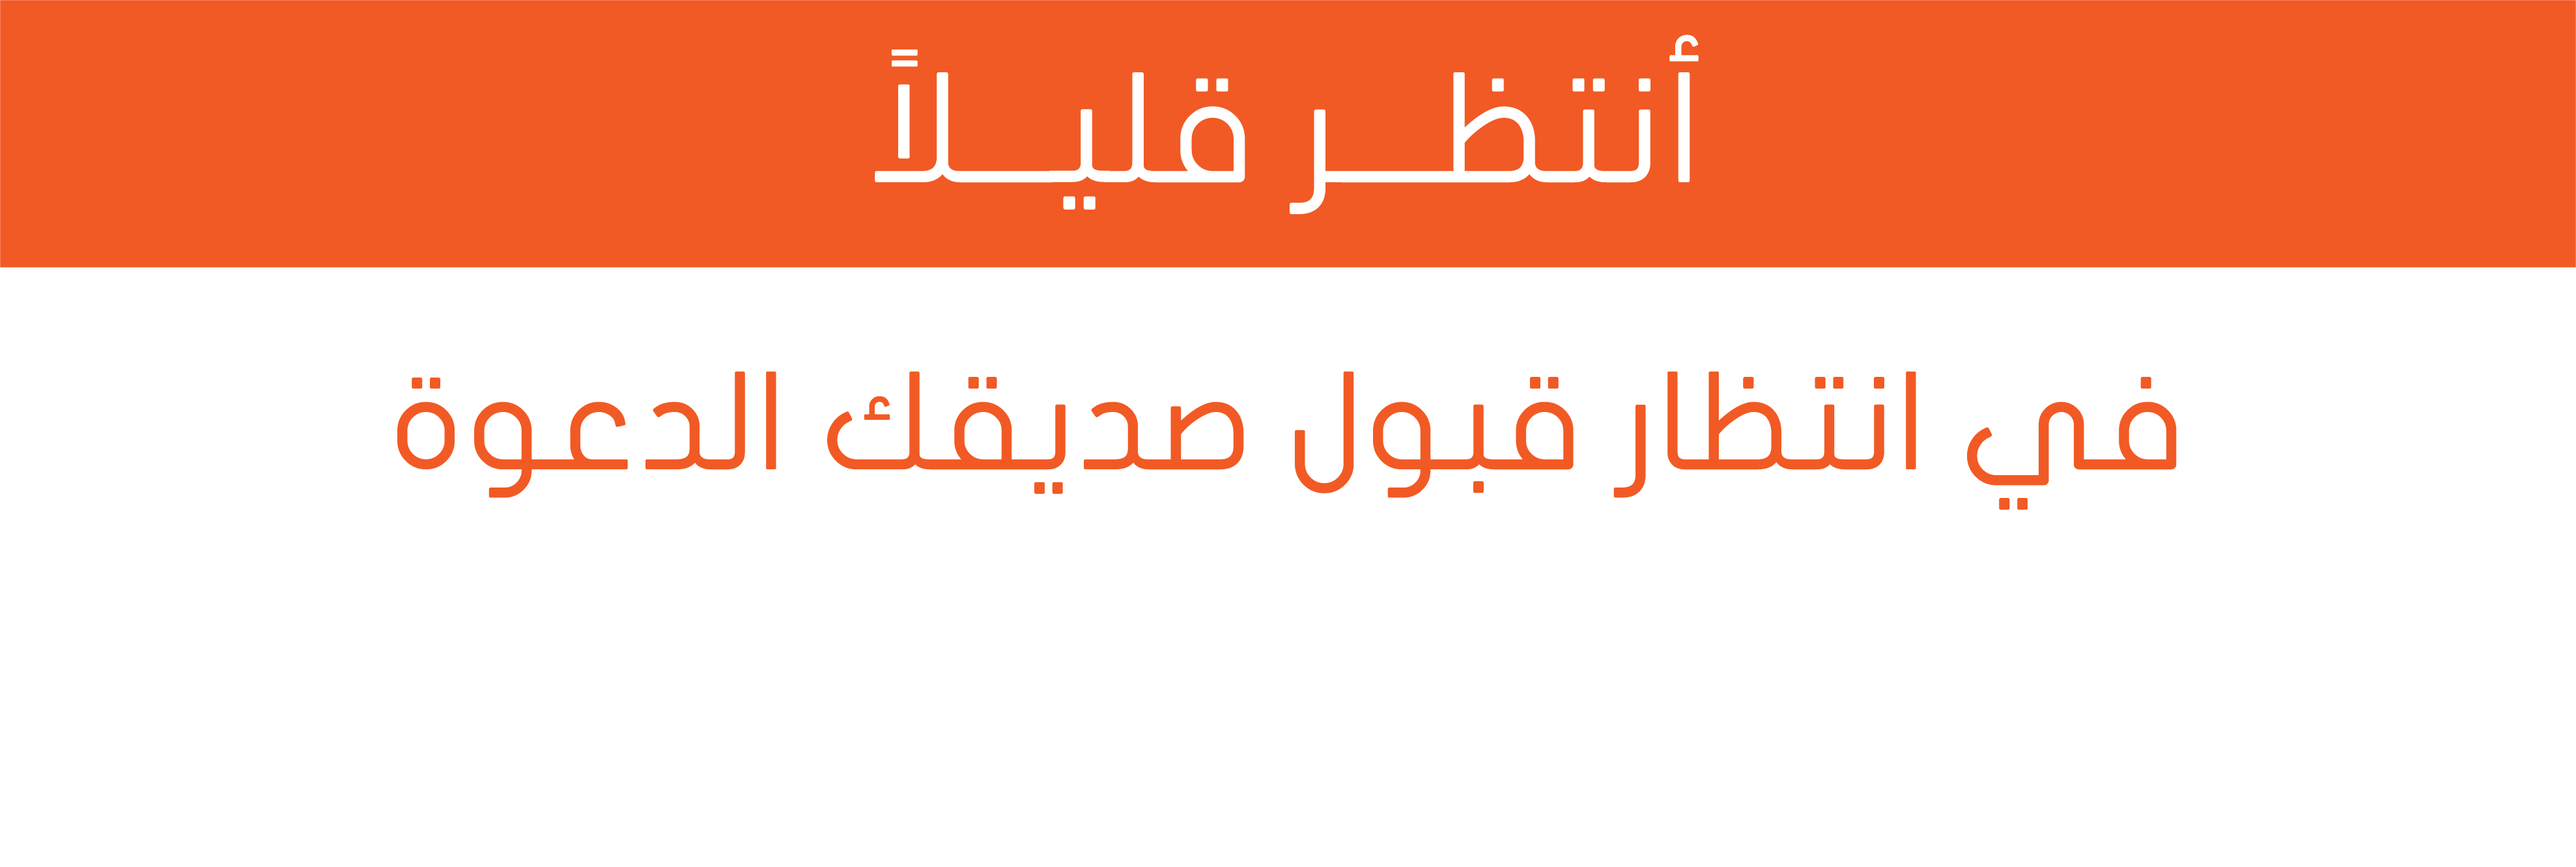
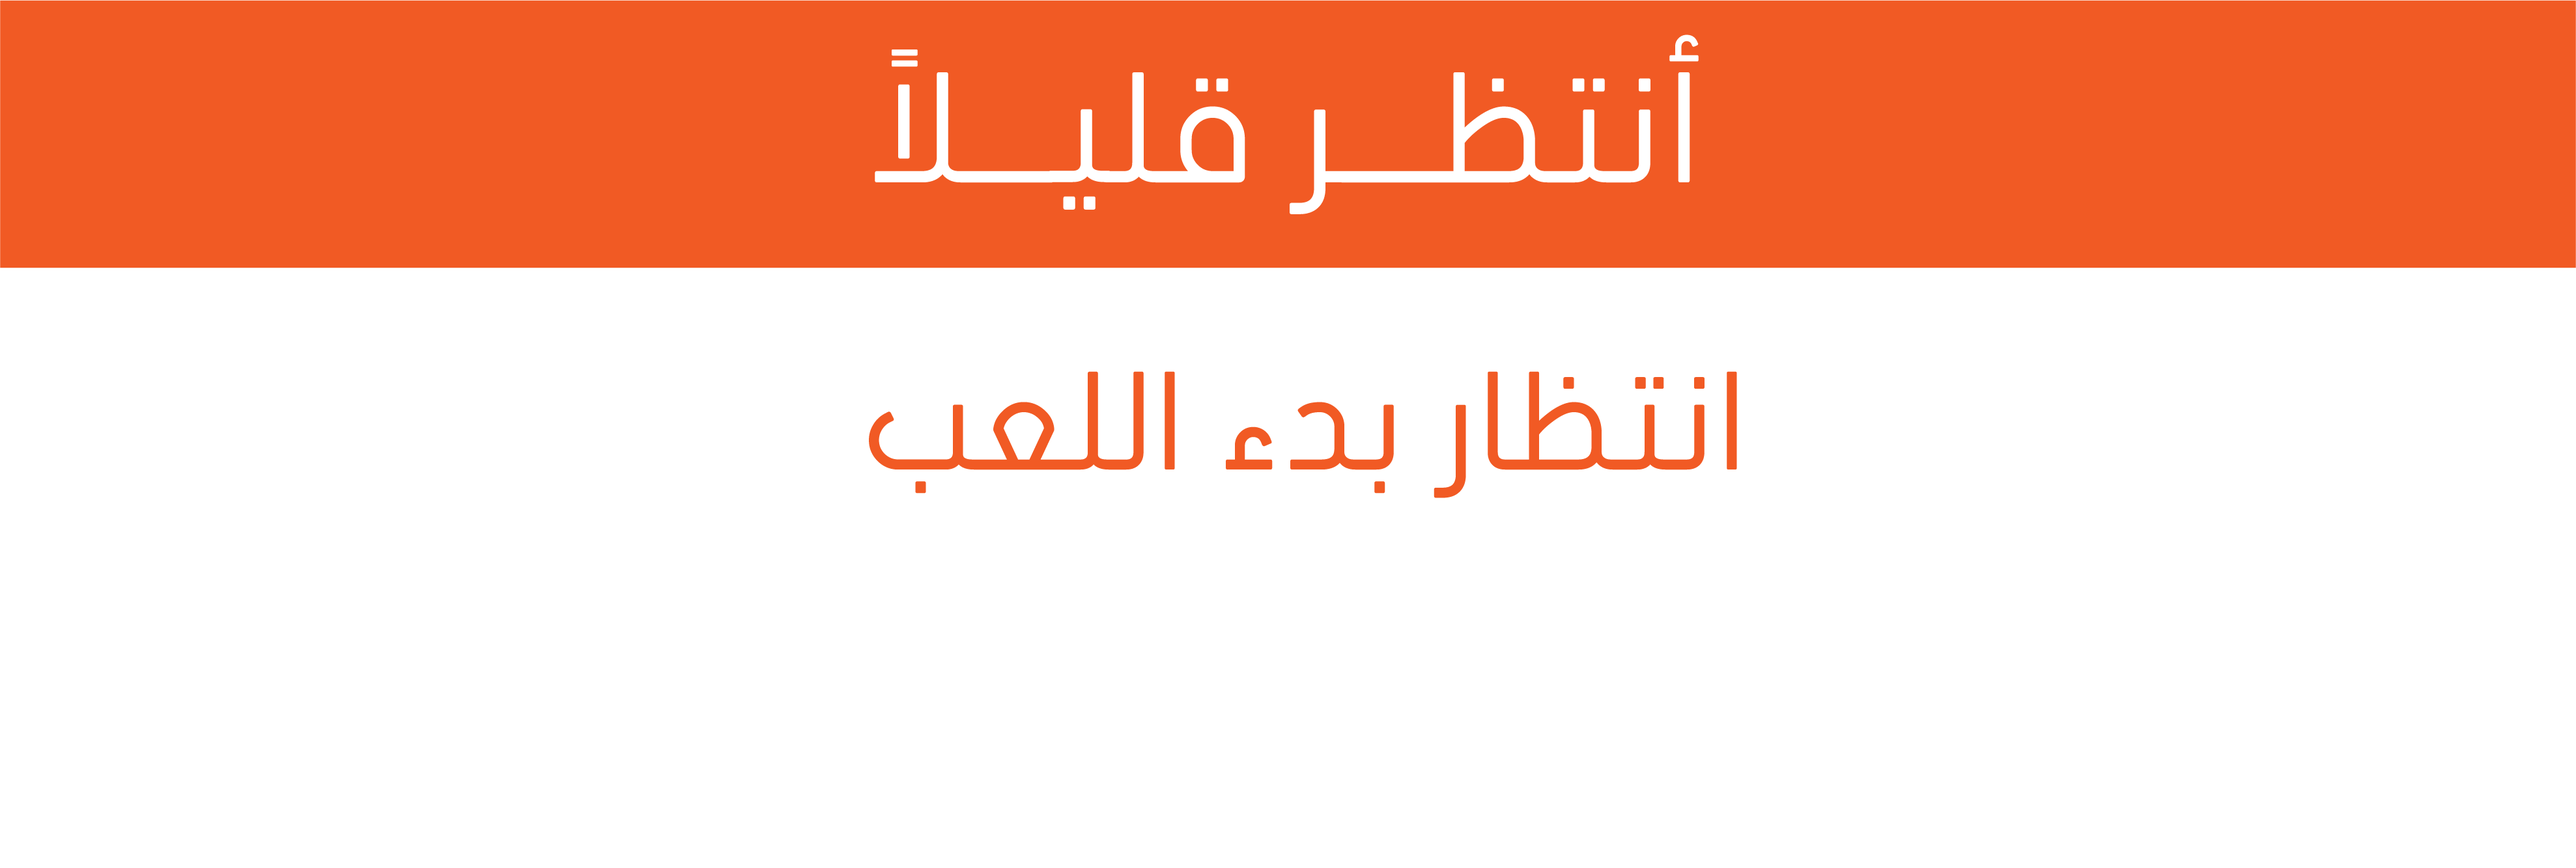
edit pop up accept and waitinh

Changed region(s): [[0.1555, 0.4309, 0.8708, 0.5848]]

diff --git a/client/src/Components/PopAccept.js b/client/src/Components/PopAccept.js
@@ -1,9 +1,13 @@
 import React from 'react';
 import './PopAccept.css';
+import './PopWaiting.css';
+
 
 function PopAccept(propss) {
   const { props } = propss;
   return props.open ? (props.type == 'invite' ? (
+    <div className="popup1">
+    <div className="popupCongrat1">
     <div className='popupAccept'>
       <div className="containerGame">
         <div className="quesTitl">
@@ -23,14 +27,23 @@ function PopAccept(propss) {
           </div>
         </div>
       </div>
+      </div>
+      </div>
     </div>
-  ) : (<div className='popWaiting'>
-    <div className='popup_innerWaiting'>
-      <button 
-      // onClick={this.togglePopup} 
-      className="cancelInvitation">الغـاء الدعـوة</button>
-    </div>
-  </div>)) : null
+  ) : ( 
+    
+    <div className="popup1">
+    <div className="popupCongrat1">
+      <div className='popWaiting'>
+        <div className='popup_innerWaiting'>
+          <button 
+          // onClick={this.togglePopup} 
+          className="cancelInvitation">انسـحاب</button>
+        </div>
+      </div>
+      </div>
+      </div>
+)) : null
 }
 
 export default PopAccept;

diff --git a/client/src/Components/popUpCongrat.css b/client/src/Components/popUpCongrat.css
@@ -38,10 +38,12 @@
 .excellent1 {
   width: 333px;
 }
-.gameScreen.popupBlur{
+
+.gameScreen.popupBlur {
   filter: blur(5px);
   -webkit-filter: blur(6px);
 }
+
 .nextStage1 {
   position: absolute;
   top: 67%;
